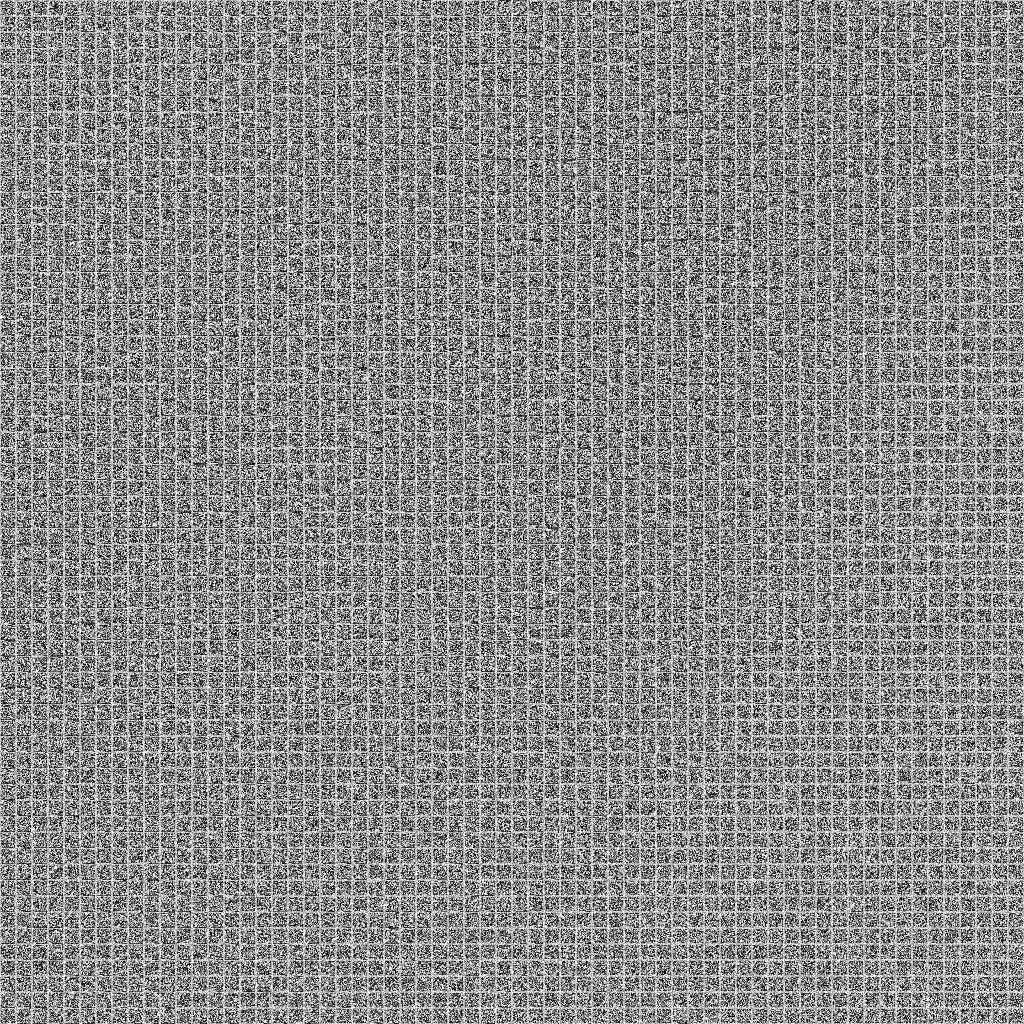
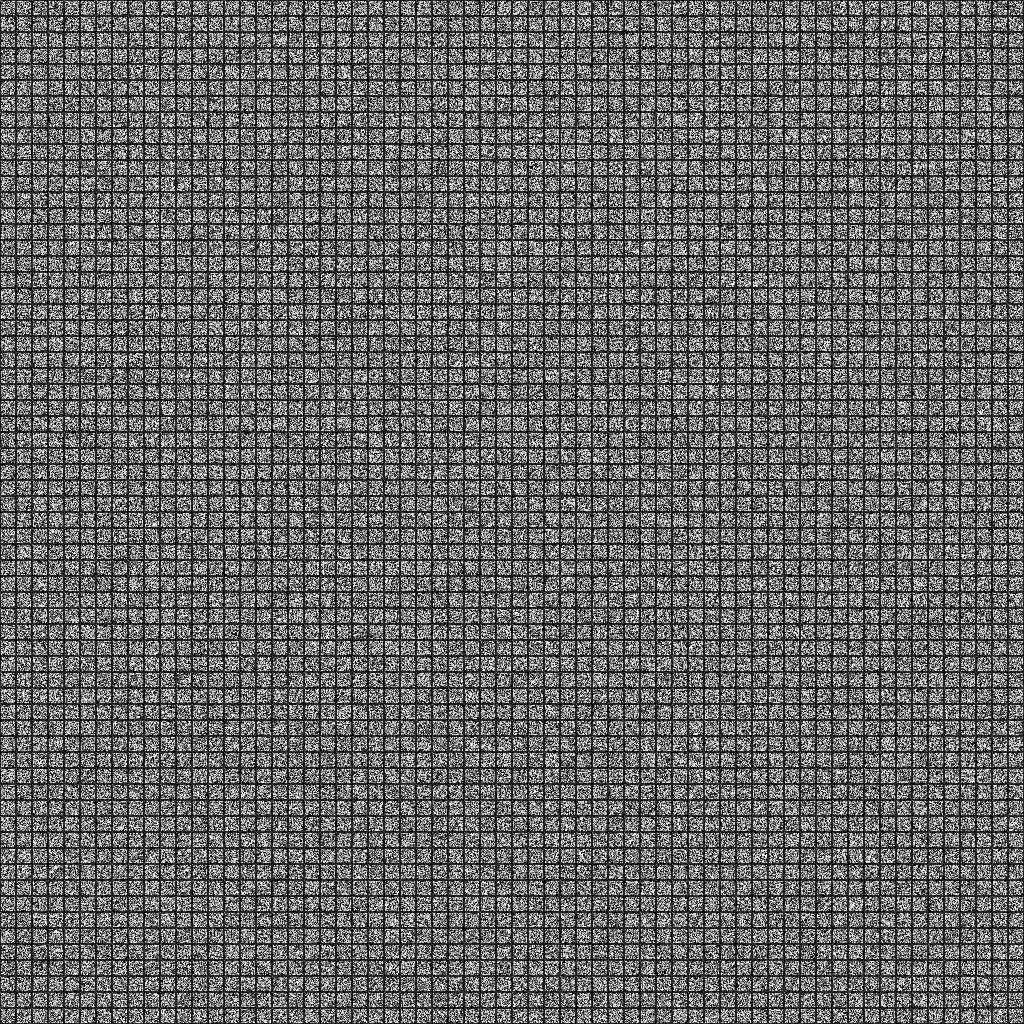
找出调整模块的bug

Changed region(s): [[0.0, 0.0, 1.0, 1.0]]

diff --git a/Adjust.m b/Adjust.m
@@ -27,7 +27,8 @@ len = len+blocksize-3;
 sub = origin(x+1:x+blocksize-2,y+1:y+blocksize-2);
 Sum = double(sum(sub(:)));
 for i = 1 : len
-    Sum = Sum+double(Calcu(origin(locationx(i),locationy(i)),MSB));
+    t = Calcu(origin(locationx(i),locationy(i)),MSB);
+    Sum = Sum+double(t);
 end
 
 %second: calculate the difference between 'current' and blocksize*blocksize*value
@@ -39,9 +40,11 @@ if difference<number(1)
     for i = 1 :len
         AjImage(locationx(i),locationy(i))=Calcu(origin(locationx(i),locationy(i)),MSB);
     end
+    return;
 end
 [~,count] = size(number);
-num = zeros(count);%store the number of every value in number
+num = zeros(1,count);%store the number of every value in number
+state = 0; 
 if count == 1
     for x = 1 : len
         s = Sum+number(1)*x;
@@ -58,25 +61,41 @@ if count == 1
        AjImage(locationx(i),locationy(i))=Calcu(origin(locationx(i),locationy(i)),MSB);
     end 
 elseif count == 3
-    for x = 0 : len
-        for y = 0 : len-x
-            s = Sum+number(1)*x+number(2)*y;
-            difference = abs(s-blocksize*blocksize*value);
-            if difference < number(1)/2 || x+y==len
-                num(1) = x;
-                num(2) = y;
+    for x = len : -1 : 0
+        for y = len-x : -1 : 0
+            for z = len-x-y : -1 : 0
+                s = Sum+number(1)*x+number(2)*y+number(3)*z;
+                difference = abs(s-blocksize*blocksize*value);
+                if difference < number(1)/2 
+                    num(1) = x;
+                    num(2) = y;
+                    num(3) = z;
+                    state = 1;
+                    break;
+                end
+            end
+            if state == 1
                 break;
             end
         end
+        if state == 1
+            break;
+        end
+    end
+    if state == 0
+        Sum-blocksize*blocksize*value
+        num(1) = 0;
+        num(2) = 0;
+        num(3) = 60;
     end
     for i = 1 : num(1)
-        AjImage(locationx(i),locationy(i))=Calcu(origin(locationx(i),locationy(i)),MSB)+number(1);
+        AjImage(locationx(i),locationy(i)) = uint8(Calcu(origin(locationx(i),locationy(i)),MSB)+number(1));
     end
     for i = num(1)+1 : num(2)
-        AjImage(locationx(i),locationy(i))=Calcu(origin(locationx(i),locationy(i)),MSB)+number(2);
+        AjImage(locationx(i),locationy(i)) = uint8(Calcu(origin(locationx(i),locationy(i)),MSB)+number(2));
     end
     for i = num(2)+1 : len
-       AjImage(locationx(i),locationy(i))=Calcu(origin(locationx(i),locationy(i)),MSB);
+       AjImage(locationx(i),locationy(i)) = Calcu(origin(locationx(i),locationy(i)),MSB);
     end 
 elseif count == 7
     for x = 0 : len
@@ -130,7 +149,7 @@ elseif count == 7
        AjImage(locationx(i),locationy(i))=Calcu(origin(locationx(i),locationy(i)),MSB);
     end 
 end
-    
+
 
 
 end

diff --git a/Embedding.m b/Embedding.m
@@ -7,20 +7,22 @@ function [data,SubImage] = Embedding( origin, blocksize, x, y, MSB, count)
 SubImage=origin;
 %select the highest MSB bits of each pixel in adjustment area
 bits = []; %store the highest MSB bits of pixels in adjustment area
-
+bit = [];
 for i = x : x+blocksize-1
-    bits = Get(bits,origin(i,y),MSB); 
+    bit = Get(bit,origin(i,y),MSB); 
 end
 for i = x : x+blocksize-1
-    bits = Get(bits,origin(i,y+blocksize-1),MSB);
+    bit = Get(bit,origin(i,y+blocksize-1),MSB);
 end
 for j = y+1 : y+blocksize-2
-    bits = Get(bits,origin(x,j),MSB);
+    bit = Get(bit,origin(x,j),MSB);
 end
 for j = y+1 : y+blocksize-2
-    bits = Get(bits,origin(x+blocksize-1,j),MSB);
+    bit = Get(bit,origin(x+blocksize-1,j),MSB);
 end
-
+a = 4*blocksize-4;
+bits(1:a) = bit(1:2:2*a-1);
+bits(a+1:2*a) = bit(2:2:2*a);
 %1-divide all pixel into different sets: EZ & EN1 & EN2 & CN & NC
 %2-generate the lacation-map MAP
 %3-store the lowest bit of each pixel in EN2 and CN  

diff --git a/Decode.m b/Decode.m
@@ -18,7 +18,7 @@ bit = [];
 sum = 0;
 p = uint16(length);
 q = 1;
-while sum < 4*blocksize-4 %MSB of the adjustment area 
+while sum < 2*(4*blocksize-4) %MSB of the adjustment area 
     num = data(p-1)+data(p-2)*2+data(p-3)*4+data(p-4)*8+data(p-5)*16+data(p-6)*32+data(p-7)*64;
     sum = sum+num;
     bit(q:q+num-1) = data(p);
@@ -26,11 +26,15 @@ while sum < 4*blocksize-4 %MSB of the adjustment area
     q = q+num;
 end
 bit = fliplr(bit);
-[~,n] = size(bit);
+% bits = bit;
+a = 4*blocksize-4;
+bits(1:2:2*a-1) = bit(1:a);
+bits(2:2:2*a) = bit(a+1:2*a);
+[~,n] = size(bits);
 if i<=p
     res(j:j+p-i) = data(i:p);
 end
 [~,len] = size(res);
-res(len+1:len+n) = bit(1:n);
+res(len+1:len+n) = bits(1:n);
 
 end

diff --git a/main.m b/main.m
@@ -3,7 +3,7 @@
 origin = imread("original.jpg");
 [M,N] = size(origin);
 blocksize = 16;
-MSB = 1;
+MSB = 2;
 count = 78;
 key = 1;
 m = M/blocksize;
@@ -22,6 +22,7 @@ EnImage = Encipher( embed_image , key ); %encipher
 AjImage = Adjustment( EnImage , blocksize , values , MSB);
 DeImage = Encipher( AjImage , key ); %decipher
 ReImage = Recovery( DeImage , blocksize , MSB );
+imwrite(EnImage,"cipher.png",'png');
 imwrite(AjImage,'result.png','png');
 imwrite(ReImage,'recover.png','png');
 

diff --git a/Adjustment.m b/Adjustment.m
@@ -1,4 +1,4 @@
-%file: Adjustment.m
+ %file: Adjustment.m
 %to adjust the MSB of pixel in adjustment area in order to keep the Thumbnail the same
 %origin: the image after saving space and encipher progress
 %value: store the average pixel in every block of the original image
